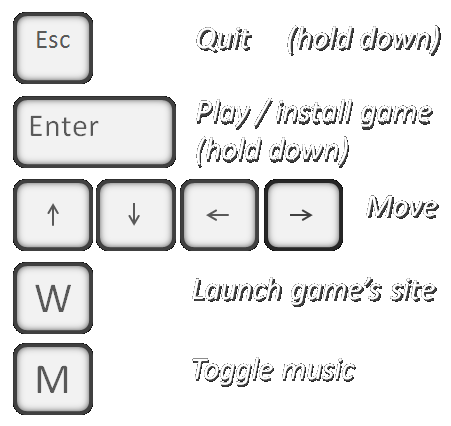
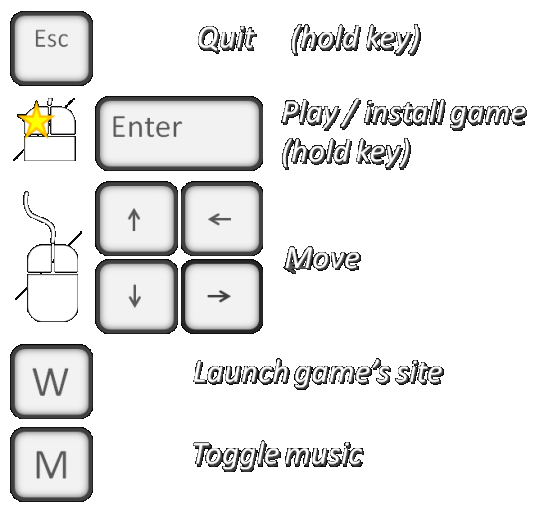
update keymap showing mouse controls

diff --git a/IndiegameGarden/IndiegameGarden/Menus/GardenGamesPanel.cs b/IndiegameGarden/IndiegameGarden/Menus/GardenGamesPanel.cs
@@ -59,8 +59,8 @@ namespace IndiegameGarden.Menus
         static Vector2 INFOBOX_DESCRIPTION_HIDDEN_POSITION = new Vector2(0.05f, 0.97f);
         static Vector2 INFOBOX_ALL_HIDDEN_POSITION = new Vector2(0.05f, 1.15f);
         const float    INFOBOX_SPEED_MOVE = 3.8f;
-        static Vector2 HELPTEXT_SHOWN_POSITION = new Vector2(0.15f, 0.13f);
-        static Vector2 HELPTEXT_HIDDEN_POSITION = new Vector2(0.15f, -0.2f);
+        static Vector2 HELPTEXT_SHOWN_POSITION = new Vector2(0.18f, 0.15f);
+        static Vector2 HELPTEXT_HIDDEN_POSITION = new Vector2(0.18f, -0.2f);
         const float    HELPTEXT_SPEED_MOVE = 3.8f;
         static Vector2 CREDITS_SHOWN_POSITION = new Vector2(0.4f, 0.145f);
         static Vector2 CREDITS_HIDDEN_POSITION = new Vector2(0.4f, -0.22f);
@@ -121,7 +121,7 @@ namespace IndiegameGarden.Menus
 
             // controls help 
             helpTextBitmap = new Spritelet("keymap");
-            helpTextBitmap.Motion.Scale = 0.5f;
+            helpTextBitmap.Motion.Scale = 0.52f;
             helpTextBitmap.Motion.Position = HELPTEXT_HIDDEN_POSITION;
             helpTextBitmap.Motion.TargetPos = HELPTEXT_SHOWN_POSITION;
             helpTextBitmap.Motion.TargetPosSpeed = HELPTEXT_SPEED_MOVE;
